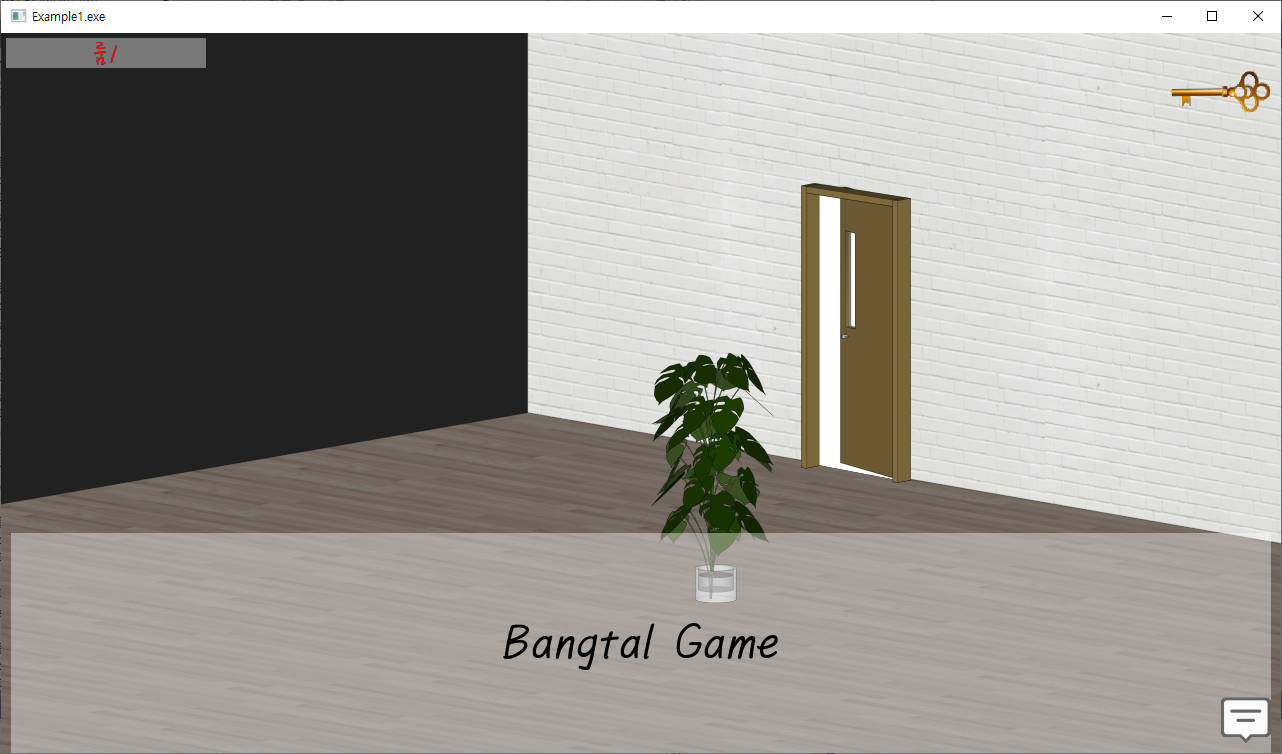
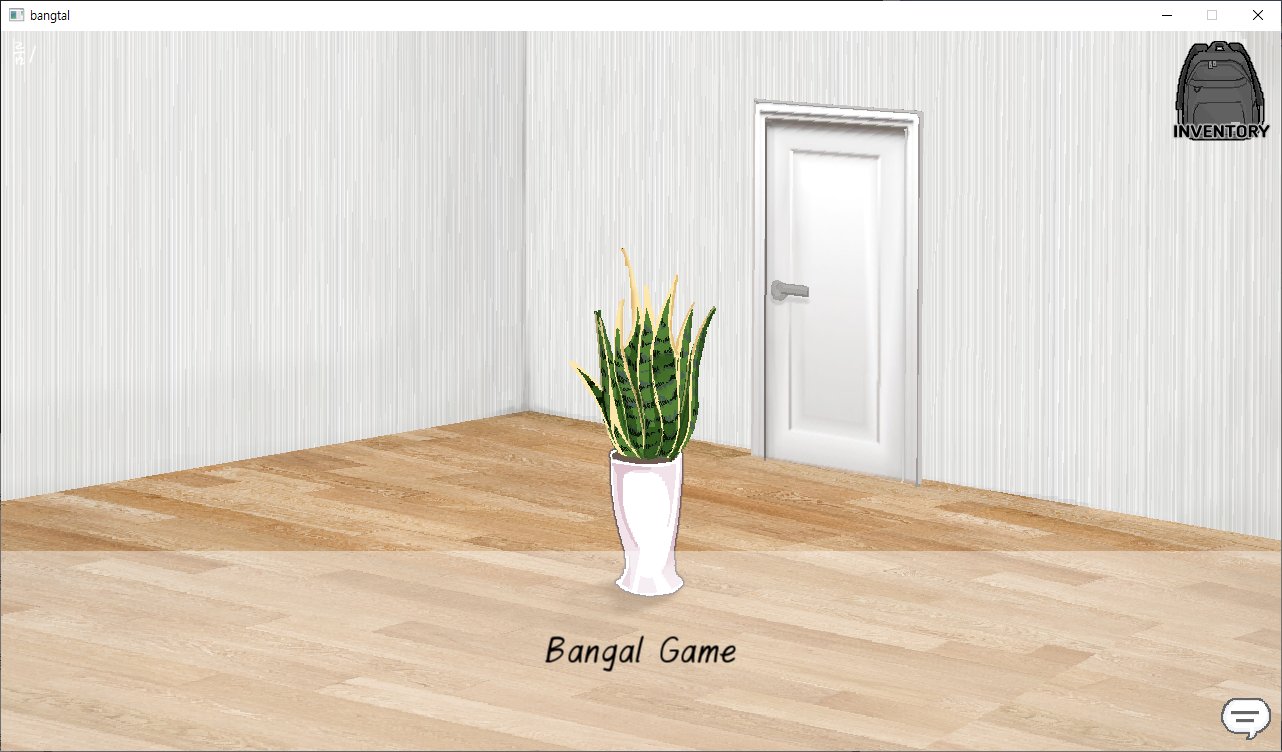
방탈 게임 - 이미지 변경

diff --git a/Example1/Example1.cpp b/Example1/Example1.cpp
@@ -12,7 +12,7 @@ void mouseCallback(ObjectID object, int x, int y, MouseAction action)
 	if (object == door1) {
 		if (closed1 == true) {
 			if (getHandObject() == key) {
-				setObjectImage(door1, "문-오른쪽-열림.png");
+				setObjectImage(door1, "Images/문-오른쪽-열림.png");
 				closed1 = false;
 			}
 			else {
@@ -25,7 +25,7 @@ void mouseCallback(ObjectID object, int x, int y, MouseAction action)
 	}
 	else if (object == door2) {
 		if (closed2 == true) {
-			setObjectImage(door2, "문-왼쪽-열림.png");
+			setObjectImage(door2, "Images/문-왼쪽-열림.png");
 			closed2 = false;
 		}
 		else {
@@ -37,7 +37,7 @@ void mouseCallback(ObjectID object, int x, int y, MouseAction action)
 			showMessage("잠겨 있네. 어떻게 열지?");
 		}
 		else if (closed3 == true) {
-			setObjectImage(door3, "문-오른쪽-열림.png");
+			setObjectImage(door3, "Images/문-오른쪽-열림.png");
 			closed3 = false;
 		}
 		else {
@@ -46,10 +46,10 @@ void mouseCallback(ObjectID object, int x, int y, MouseAction action)
 	}
 	else if (object == flowerpot) {
 		if (action == MouseAction::MOUSE_DRAG_LEFT) {
-			locateObject(flowerpot, scene1, 450, 150);
+			locateObject(flowerpot, scene1, 450, 110);
 		}
 		else if (action == MouseAction::MOUSE_DRAG_RIGHT) {
-			locateObject(flowerpot, scene1, 650, 150);
+			locateObject(flowerpot, scene1, 650, 110);
 		}
 	}
 	else if (object == key) {
@@ -93,41 +93,41 @@ int main()
 	setMouseCallback(mouseCallback);
 	setObjectCallback(objectCallback);
 
-	scene1 = createScene("룸1", "배경-1.png");
+	scene1 = createScene("룸1", "Images/배경-1.png");
 
-	door1 = createObject("문-오른쪽-닫힘.png");
-	locateObject(door1, scene1, 800, 270);
+	door1 = createObject("Images/문-오른쪽-닫힘.png");
+	locateObject(door1, scene1, 749, 264);
 	showObject(door1);
 
-	scene2 = createScene("룸2", "배경-2.png");
+	scene2 = createScene("룸2", "Images/배경-2.png");
 
-	door2 = createObject("문-왼쪽-닫힘.png");
-	locateObject(door2, scene2, 320, 270);
+	door2 = createObject("Images/문-왼쪽-닫힘.png");
+	locateObject(door2, scene2, 129, 222);
 	showObject(door2);
 
-	door3 = createObject("문-오른쪽-닫힘.png");
-	locateObject(door3, scene2, 900, 270);
+	door3 = createObject("Images/문-오른쪽-닫힘.png");
+	locateObject(door3, scene2, 904, 245);
 	showObject(door3);
 
-	key = createObject("열쇠.png");
-	locateObject(key, scene1, 600, 150);
+	key = createObject("Images/열쇠.png");
+	locateObject(key, scene1, 620, 150);
 	scaleObject(key, 0.2f);
 	showObject(key);
 
-	flowerpot = createObject("화분.png");
-	locateObject(flowerpot, scene1, 550, 150);
+	flowerpot = createObject("Images/화분.png");
+	locateObject(flowerpot, scene1, 550, 110);
 	showObject(flowerpot);
 
-	keypad = createObject("키패드.png");
-	locateObject(keypad, scene2, 885, 420);
+	keypad = createObject("Images/키패드.png");
+	locateObject(keypad, scene2, 880, 460);
 	showObject(keypad);
 
-	button = createObject("스위치.png");
-	locateObject(button, scene2, 880, 440);
+	button = createObject("Images/스위치.png");
+	locateObject(button, scene2, 875, 480);
 	showObject(button);
 
 	// 아직 암호는 보이진 않는다.
-	password = createObject("암호.png");
+	password = createObject("Images/암호.png");
 	locateObject(password, scene2, 400, 100);
 
 	startGame(scene1);
